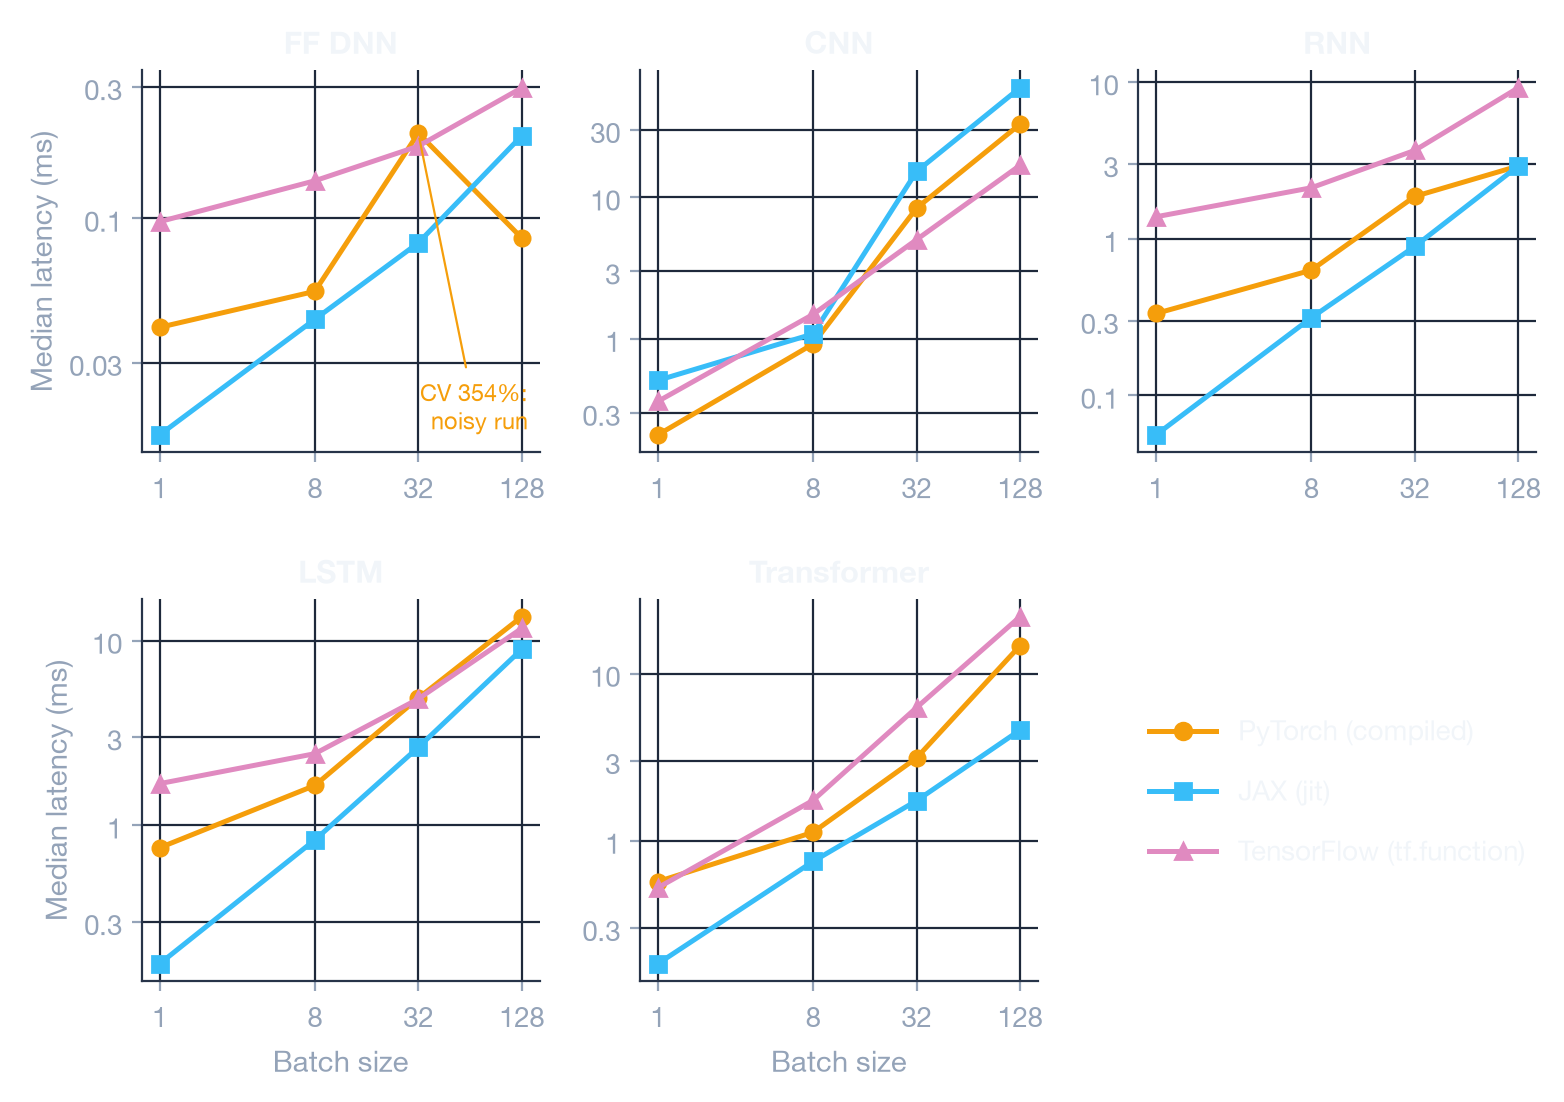
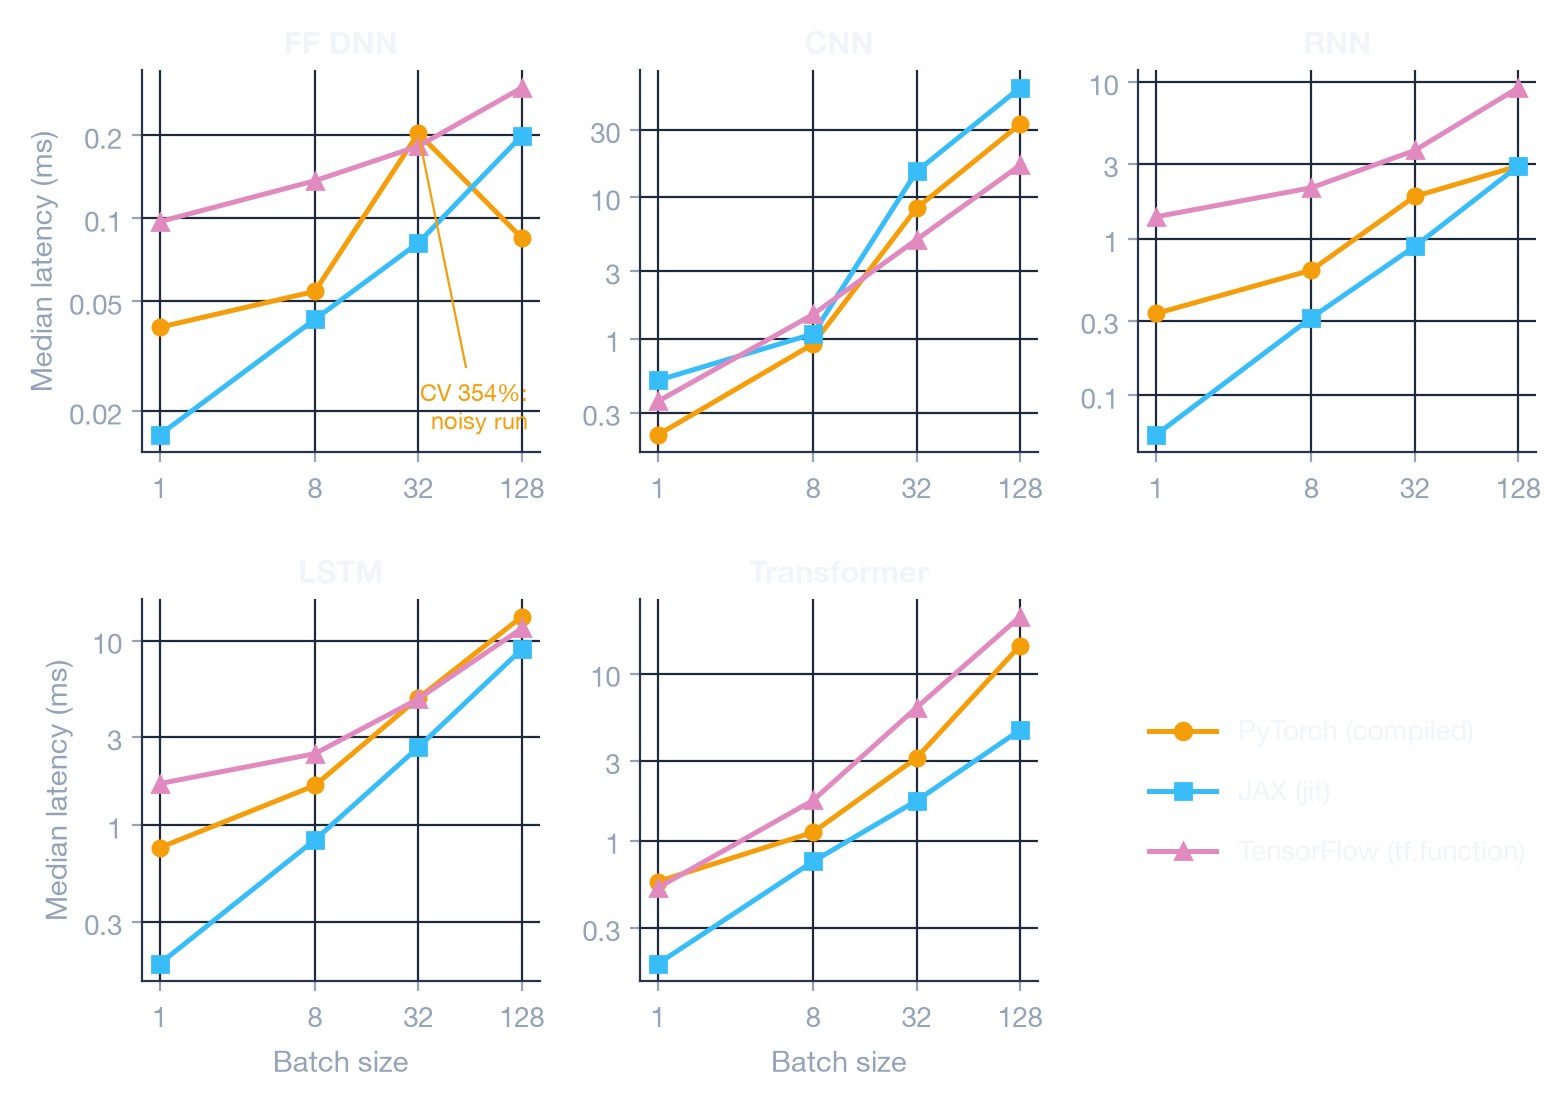
fix(blog-charts): readable y ticks on narrow log panels
LogLocator labels every integer (2, 3, … 9) when a panel spans less
than a decade, which crowded the GPU Transformer panel. Pick the steps
explicitly: 1-2-5 for narrow panels, 1-3-10 for wide ones.

diff --git a/scripts/blog-charts/generate.py b/scripts/blog-charts/generate.py
@@ -26,7 +26,7 @@ import matplotlib.pyplot as plt  # noqa: E402
 import numpy as np  # noqa: E402
 from matplotlib.colors import LinearSegmentedColormap, LogNorm, Normalize  # noqa: E402
 from matplotlib.lines import Line2D  # noqa: E402
-from matplotlib.ticker import FixedLocator, FuncFormatter, LogLocator, NullLocator  # noqa: E402
+from matplotlib.ticker import FixedLocator, FuncFormatter, NullLocator  # noqa: E402
 
 ROOT = Path(__file__).resolve().parents[2]
 DATA = Path(__file__).resolve().parent / "data"
@@ -311,7 +311,11 @@ def small_multiples(data, frameworks, batches, field, ylabel, name, theme, log=T
         ax.set_xscale("log", base=2)
         if log:
             ax.set_yscale("log")
-            ax.yaxis.set_major_locator(LogLocator(base=10, subs=(1, 3)))
+            # LogLocator labels every integer when a panel spans < 1 decade, so pick the
+            # steps ourselves: 1-2-5 for narrow panels, 1-3-10 for wide ones.
+            lo, hi = ax.get_ylim()
+            steps = (1, 2, 5) if np.log10(hi / lo) < 1.5 else (1, 3)
+            ax.yaxis.set_major_locator(FixedLocator([m * 10.0**e for e in range(-3, 4) for m in steps]))
             ax.yaxis.set_major_formatter(FuncFormatter(plain))
             ax.yaxis.set_minor_locator(NullLocator())
         else:
